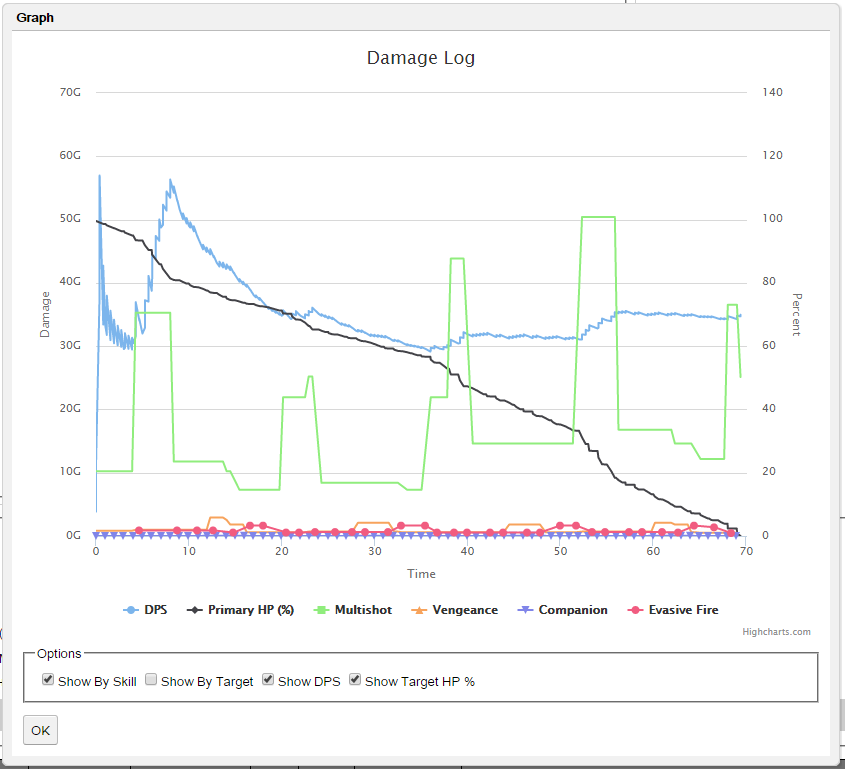
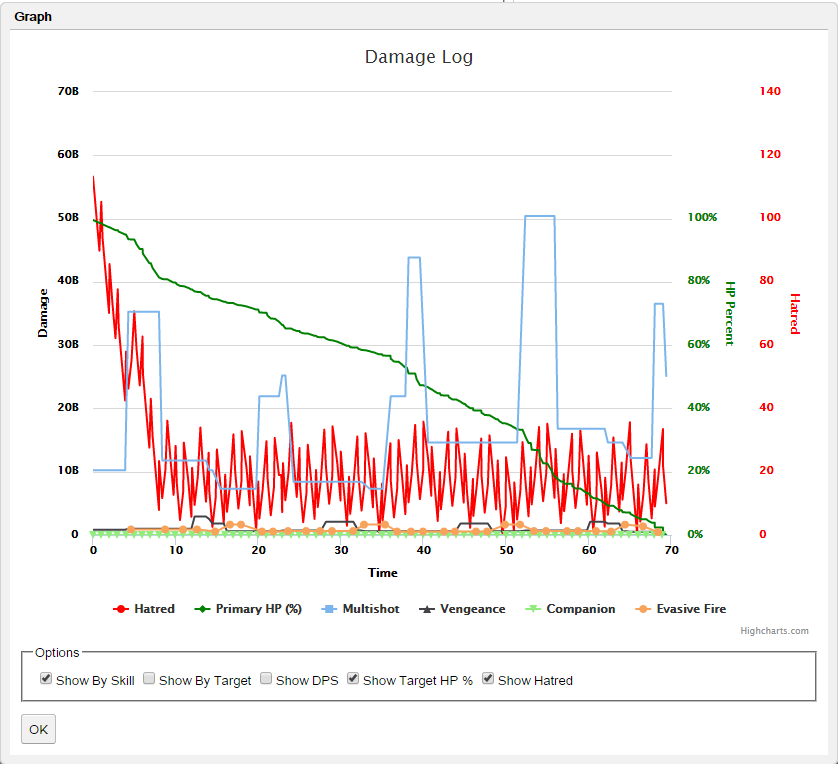
Added hatred to chart, added chart zoom, added chart context menu.

diff --git a/war/dhcalc.html b/war/dhcalc.html
@@ -19,6 +19,7 @@
 	src="http://ajax.googleapis.com/ajax/libs/jquery/1.10.2/jquery.min.js"> 
 </script>
 <script type="text/javascript" src="js/highcharts.js"></script>
+<script type="text/javascript" src="js/modules/exporting.js"></script>
 </head>
 <script>
 //Check if a new cache is available on page load.

diff --git a/src/com/dawg6/web/dhcalc/client/GraphPanel.java b/src/com/dawg6/web/dhcalc/client/GraphPanel.java
@@ -23,9 +23,19 @@ import java.util.Map;
 import java.util.TreeMap;
 import java.util.Vector;
 
+import org.moxieapps.gwt.highcharts.client.AxisTitle;
+import org.moxieapps.gwt.highcharts.client.BaseChart;
+import org.moxieapps.gwt.highcharts.client.Button.Align;
 import org.moxieapps.gwt.highcharts.client.Chart;
+import org.moxieapps.gwt.highcharts.client.ContextButton;
+import org.moxieapps.gwt.highcharts.client.Exporting;
 import org.moxieapps.gwt.highcharts.client.Point;
 import org.moxieapps.gwt.highcharts.client.Series;
+import org.moxieapps.gwt.highcharts.client.Style;
+import org.moxieapps.gwt.highcharts.client.labels.AxisLabelsData;
+import org.moxieapps.gwt.highcharts.client.labels.AxisLabelsFormatter;
+import org.moxieapps.gwt.highcharts.client.labels.XAxisLabels;
+import org.moxieapps.gwt.highcharts.client.labels.YAxisLabels;
 
 import com.dawg6.gwt.client.widgets.SimpleCaptionPanel;
 import com.dawg6.web.dhcalc.shared.calculator.Damage;
@@ -46,6 +56,7 @@ public class GraphPanel extends Composite {
 	private final CheckBox target;
 	private final CheckBox dps;
 	private final CheckBox targetHp;
+	private final CheckBox hatred;
 
 	public GraphPanel() {
 
@@ -54,8 +65,6 @@ public class GraphPanel extends Composite {
 
 		table = new FlexTable();
 		panel.setWidget(table);
-
-		resetChart();
 
 		SimpleCaptionPanel options = new SimpleCaptionPanel("Options");
 		table.setWidget(1, 0, options);
@@ -110,6 +119,20 @@ public class GraphPanel extends Composite {
 
 			}
 		});
+
+		hatred = new CheckBox("Show Hatred");
+		table2.setWidget(row, column++, hatred);
+		hatred.addClickHandler(new ClickHandler() {
+
+			@Override
+			public void onClick(ClickEvent event) {
+				redraw();
+
+			}
+		});
+
+		resetChart();
+		table.setWidget(0, 0, chart);
 	}
 
 	private void resetChart() {
@@ -118,16 +141,93 @@ public class GraphPanel extends Composite {
 		chart.setChartTitleText("Damage Log");
 		chart.setWidth("800px");
 		chart.setHeight("600px");
-		chart.getXAxis().setAxisTitleText("Time");
+		AxisTitle x = new AxisTitle();
+		x.setText("Time");
+		x.setStyle(new Style().setColor("black").setFontWeight("bold"));
+		chart.getXAxis().setAxisTitle(x);
 		chart.getXAxis().setMin(0);
-		chart.getYAxis(0).setAxisTitleText("Damage");
-		chart.getYAxis(0).setMin(0);
-		chart.getYAxis(1).setAxisTitleText("HP Percent");
-		chart.getYAxis(1).setMin(0);
-		chart.getYAxis(1).setMax(100.0);
-		chart.getYAxis(1).setOpposite(true);
-		table.setWidget(0, 0, chart);
+		chart.getXAxis().setLabels(
+				new XAxisLabels().setStyle(new Style().setColor("black")
+						.setFontWeight("bold")));
 
+		AxisTitle y0 = new AxisTitle();
+		y0.setText("Damage");
+		y0.setStyle(new Style().setColor("black").setFontWeight("bold"));
+		chart.getYAxis(0).setAxisTitle(y0);
+		chart.getYAxis(0).setLabels(
+				new YAxisLabels().setFormatter(new AxisLabelsFormatter() {
+
+					@Override
+					public String format(AxisLabelsData axisLabelsData) {
+						double d = axisLabelsData.getValueAsDouble();
+
+						if (d < 1000)
+							return String.valueOf((long) d);
+						else if (d < 1000000)
+							return String.valueOf((long) d / 1000) + "K";
+						else if (d < 100000000)
+							return String.valueOf((long) d / 1000000) + "M";
+						else
+							return String.valueOf((long) d / 1000000000) + "B";
+					}
+				})
+						.setStyle(
+								new Style().setColor("black").setFontWeight(
+										"bold")));
+
+		chart.getYAxis(0).setMin(0);
+
+		if (this.targetHp.getValue()) {
+			chart.getYAxis(1).setMin(0);
+			chart.getYAxis(1).setMax(100.0);
+			chart.getYAxis(1).setOpposite(true);
+			AxisTitle y1 = new AxisTitle();
+			y1.setText("HP Percent");
+			y1.setStyle(new Style().setColor("green").setFontWeight("bold"));
+			chart.getYAxis(1).setAxisTitle(y1);
+			chart.getYAxis(1).setLabels(
+					new YAxisLabels().setFormatter(new AxisLabelsFormatter() {
+
+						@Override
+						public String format(AxisLabelsData axisLabelsData) {
+
+							if (axisLabelsData.getValueAsDouble() > 100)
+								return "";
+							else
+								return axisLabelsData.getValueAsString() + "%";
+						}
+					})
+							.setStyle(
+									new Style().setColor("green")
+											.setFontWeight("bold")));
+		}
+
+		if (this.hatred.getValue()) {
+			chart.getYAxis(2).setMin(0);
+			AxisTitle y2 = new AxisTitle();
+			y2.setText("Hatred");
+			y2.setStyle(new Style().setColor("red").setFontWeight("bold"));
+			chart.getYAxis(2).setAxisTitle(y2);
+			chart.getYAxis(2).setOpposite(true);
+			chart.getYAxis(2).setLabels(
+					new YAxisLabels().setFormatter(new AxisLabelsFormatter() {
+
+						@Override
+						public String format(AxisLabelsData axisLabelsData) {
+							return String.valueOf(axisLabelsData
+									.getValueAsLong());
+						}
+					}).setStyle(
+							new Style().setColor("red").setFontWeight("bold")));
+
+		}
+		
+		
+		ContextButton button =  new ContextButton();
+		button.setAlign(Align.RIGHT);
+		
+		chart.setExporting(new Exporting().setContextButton(button));
+		chart.setZoomType(BaseChart.ZoomType.X_AND_Y);
 	}
 
 	public void setLog(DamageResult log) {
@@ -147,6 +247,7 @@ public class GraphPanel extends Composite {
 		boolean showTarget = target.getValue();
 		boolean showDps = dps.getValue();
 		boolean showTargetHp = targetHp.getValue();
+		boolean showHatred = hatred.getValue();
 
 		List<Series> series = new Vector<Series>();
 		Map<String, Integer> map = new TreeMap<String, Integer>();
@@ -157,10 +258,13 @@ public class GraphPanel extends Composite {
 		List<Point> dpsPoints = new Vector<Point>();
 		double dpsPrev = -1;
 
+		double max[] = { 0.0, 100.0, 125.0 };
+
 		if (!showSkills && !showTarget) {
 			Series s = chart.createSeries();
 			s.setYAxis(0);
 			s.setName("Damage Done");
+			s.setOption("color", "black");
 			chart.addSeries(s);
 			series.add(s);
 			points.add(new Vector<Point>());
@@ -170,28 +274,66 @@ public class GraphPanel extends Composite {
 		if (showDps) {
 			dpsSeries = chart.createSeries();
 			dpsSeries.setName("DPS");
+			dpsSeries.setOption("color", "blue");
 			chart.addSeries(dpsSeries);
 			dpsSeries.setYAxis(0);
 		}
 
 		for (Damage d : log.damages) {
+			{
+				if (showHatred) {
+					String source = "Hatred";
+					Integer index = map.get(source);
+
+					if (index == null) {
+						index = series.size();
+						map.put(source, index);
+						Series s = chart.createSeries();
+						s.setOption("color", "red");
+						s.setYAxis(2);
+						s.setName(source);
+						chart.addSeries(s);
+						series.add(s);
+						points.add(new Vector<Point>());
+						prev.add(new Double(-1));
+					}
+
+					List<Point> pt = points.get(index);
+					Double pp = prev.get(index);
+
+					if (d.time > pp) {
+						pt.add(new Point(d.time, d.currentHatred));
+						prev.set(index, d.time);
+					} else {
+						int n = pt.size() - 1;
+						Point p = pt.get(n);
+						pt.set(n, new Point(p.getX(), d.currentHatred));
+					}
+
+					max[2] = Math.max(max[2], d.currentHatred);
+				}
+
+			}
+
 			if (d.damage > 0) {
 
 				if (showDps) {
 					totalDamage += d.damage;
 					double duration = d.time;
-					
+
 					if (duration == 0)
 						duration = 1.0;
-					
+
+					double dps = totalDamage / duration;
+
+					max[0] = Math.max(max[0], dps);
+
 					if (d.time > dpsPrev) {
-						dpsPoints.add(new Point(d.time, totalDamage
-								/ duration));
+						dpsPoints.add(new Point(d.time, dps));
 					} else {
 						int n = dpsPoints.size();
 						Point p = dpsPoints.get(n);
-						dpsPoints.set(n, new Point(p.getX(), totalDamage
-								/ duration));
+						dpsPoints.set(n, new Point(p.getX(), dps));
 					}
 				}
 
@@ -203,6 +345,7 @@ public class GraphPanel extends Composite {
 						index = series.size();
 						map.put(source, index);
 						Series s = chart.createSeries();
+						s.setOption("color", "green");
 						s.setYAxis(1);
 						s.setName(source);
 						chart.addSeries(s);
@@ -219,51 +362,56 @@ public class GraphPanel extends Composite {
 					} else {
 						int n = pt.size() - 1;
 						Point p = pt.get(n);
-						pt.set(n, new Point(p.getX(), d.targetHpPercent * 100.0));
+						pt.set(n,
+								new Point(p.getX(), d.targetHpPercent * 100.0));
 					}
 				}
 
-				Integer index = 0;
+				{
+					Integer index = 0;
 
-				if (showSkills || showTarget) {
-					StringBuffer buf = new StringBuffer();
+					if (showSkills || showTarget) {
+						StringBuffer buf = new StringBuffer();
 
-					if (showTarget)
-						buf.append(d.target.toString());
-
-					if (showSkills) {
 						if (showTarget)
-							buf.append("-");
-						buf.append(d.source.getName());
+							buf.append(d.target.toString());
+
+						if (showSkills) {
+							if (showTarget)
+								buf.append("-");
+							buf.append(d.source.getName());
+						}
+
+						String source = buf.toString();
+						index = map.get(source);
+
+						if (index == null) {
+							index = series.size();
+							map.put(source, index);
+							Series s = chart.createSeries();
+							s.setYAxis(0);
+							s.setName(source);
+							chart.addSeries(s);
+							series.add(s);
+							points.add(new Vector<Point>());
+							prev.add(new Double(-1));
+						}
 					}
 
-					String source = buf.toString();
-					index = map.get(source);
+					List<Point> pt = points.get(index);
+					Double pp = prev.get(index);
 
-					if (index == null) {
-						index = series.size();
-						map.put(source, index);
-						Series s = chart.createSeries();
-						s.setYAxis(0);
-						s.setName(source);
-						chart.addSeries(s);
-						series.add(s);
-						points.add(new Vector<Point>());
-						prev.add(new Double(-1));
+					if (d.time > pp) {
+						pt.add(new Point(d.time, d.damage));
+						prev.set(index, d.time);
+						max[0] = Math.max(max[0], d.damage);
+					} else {
+						int n = pt.size() - 1;
+						Point p = pt.get(n);
+						double dd = p.getY().doubleValue() + d.damage;
+						pt.set(n, new Point(p.getX(), dd));
+						max[0] = Math.max(max[0], dd);
 					}
-				}
-
-				List<Point> pt = points.get(index);
-				Double pp = prev.get(index);
-
-				if (d.time > pp) {
-					pt.add(new Point(d.time, d.damage));
-					prev.set(index, d.time);
-				} else {
-					int n = pt.size() - 1;
-					Point p = pt.get(n);
-					pt.set(n, new Point(p.getX(), p.getY().doubleValue()
-							+ d.damage));
 				}
 			}
 		}
@@ -274,6 +422,16 @@ public class GraphPanel extends Composite {
 		for (int i = 0; i < series.size(); i++) {
 			series.get(i).setPoints(points.get(i).toArray(new Point[0]));
 		}
+
+		for (int i = 0; i < max.length; i++) {
+
+			if ((i == 0) || ((i == 1) && showTargetHp)
+					|| ((i == 2) && showHatred)) {
+				chart.getYAxis(i).setExtremes(0, max[i], false, false);
+			}
+		}
+
+		table.setWidget(0, 0, chart);
 	}
 
 }
